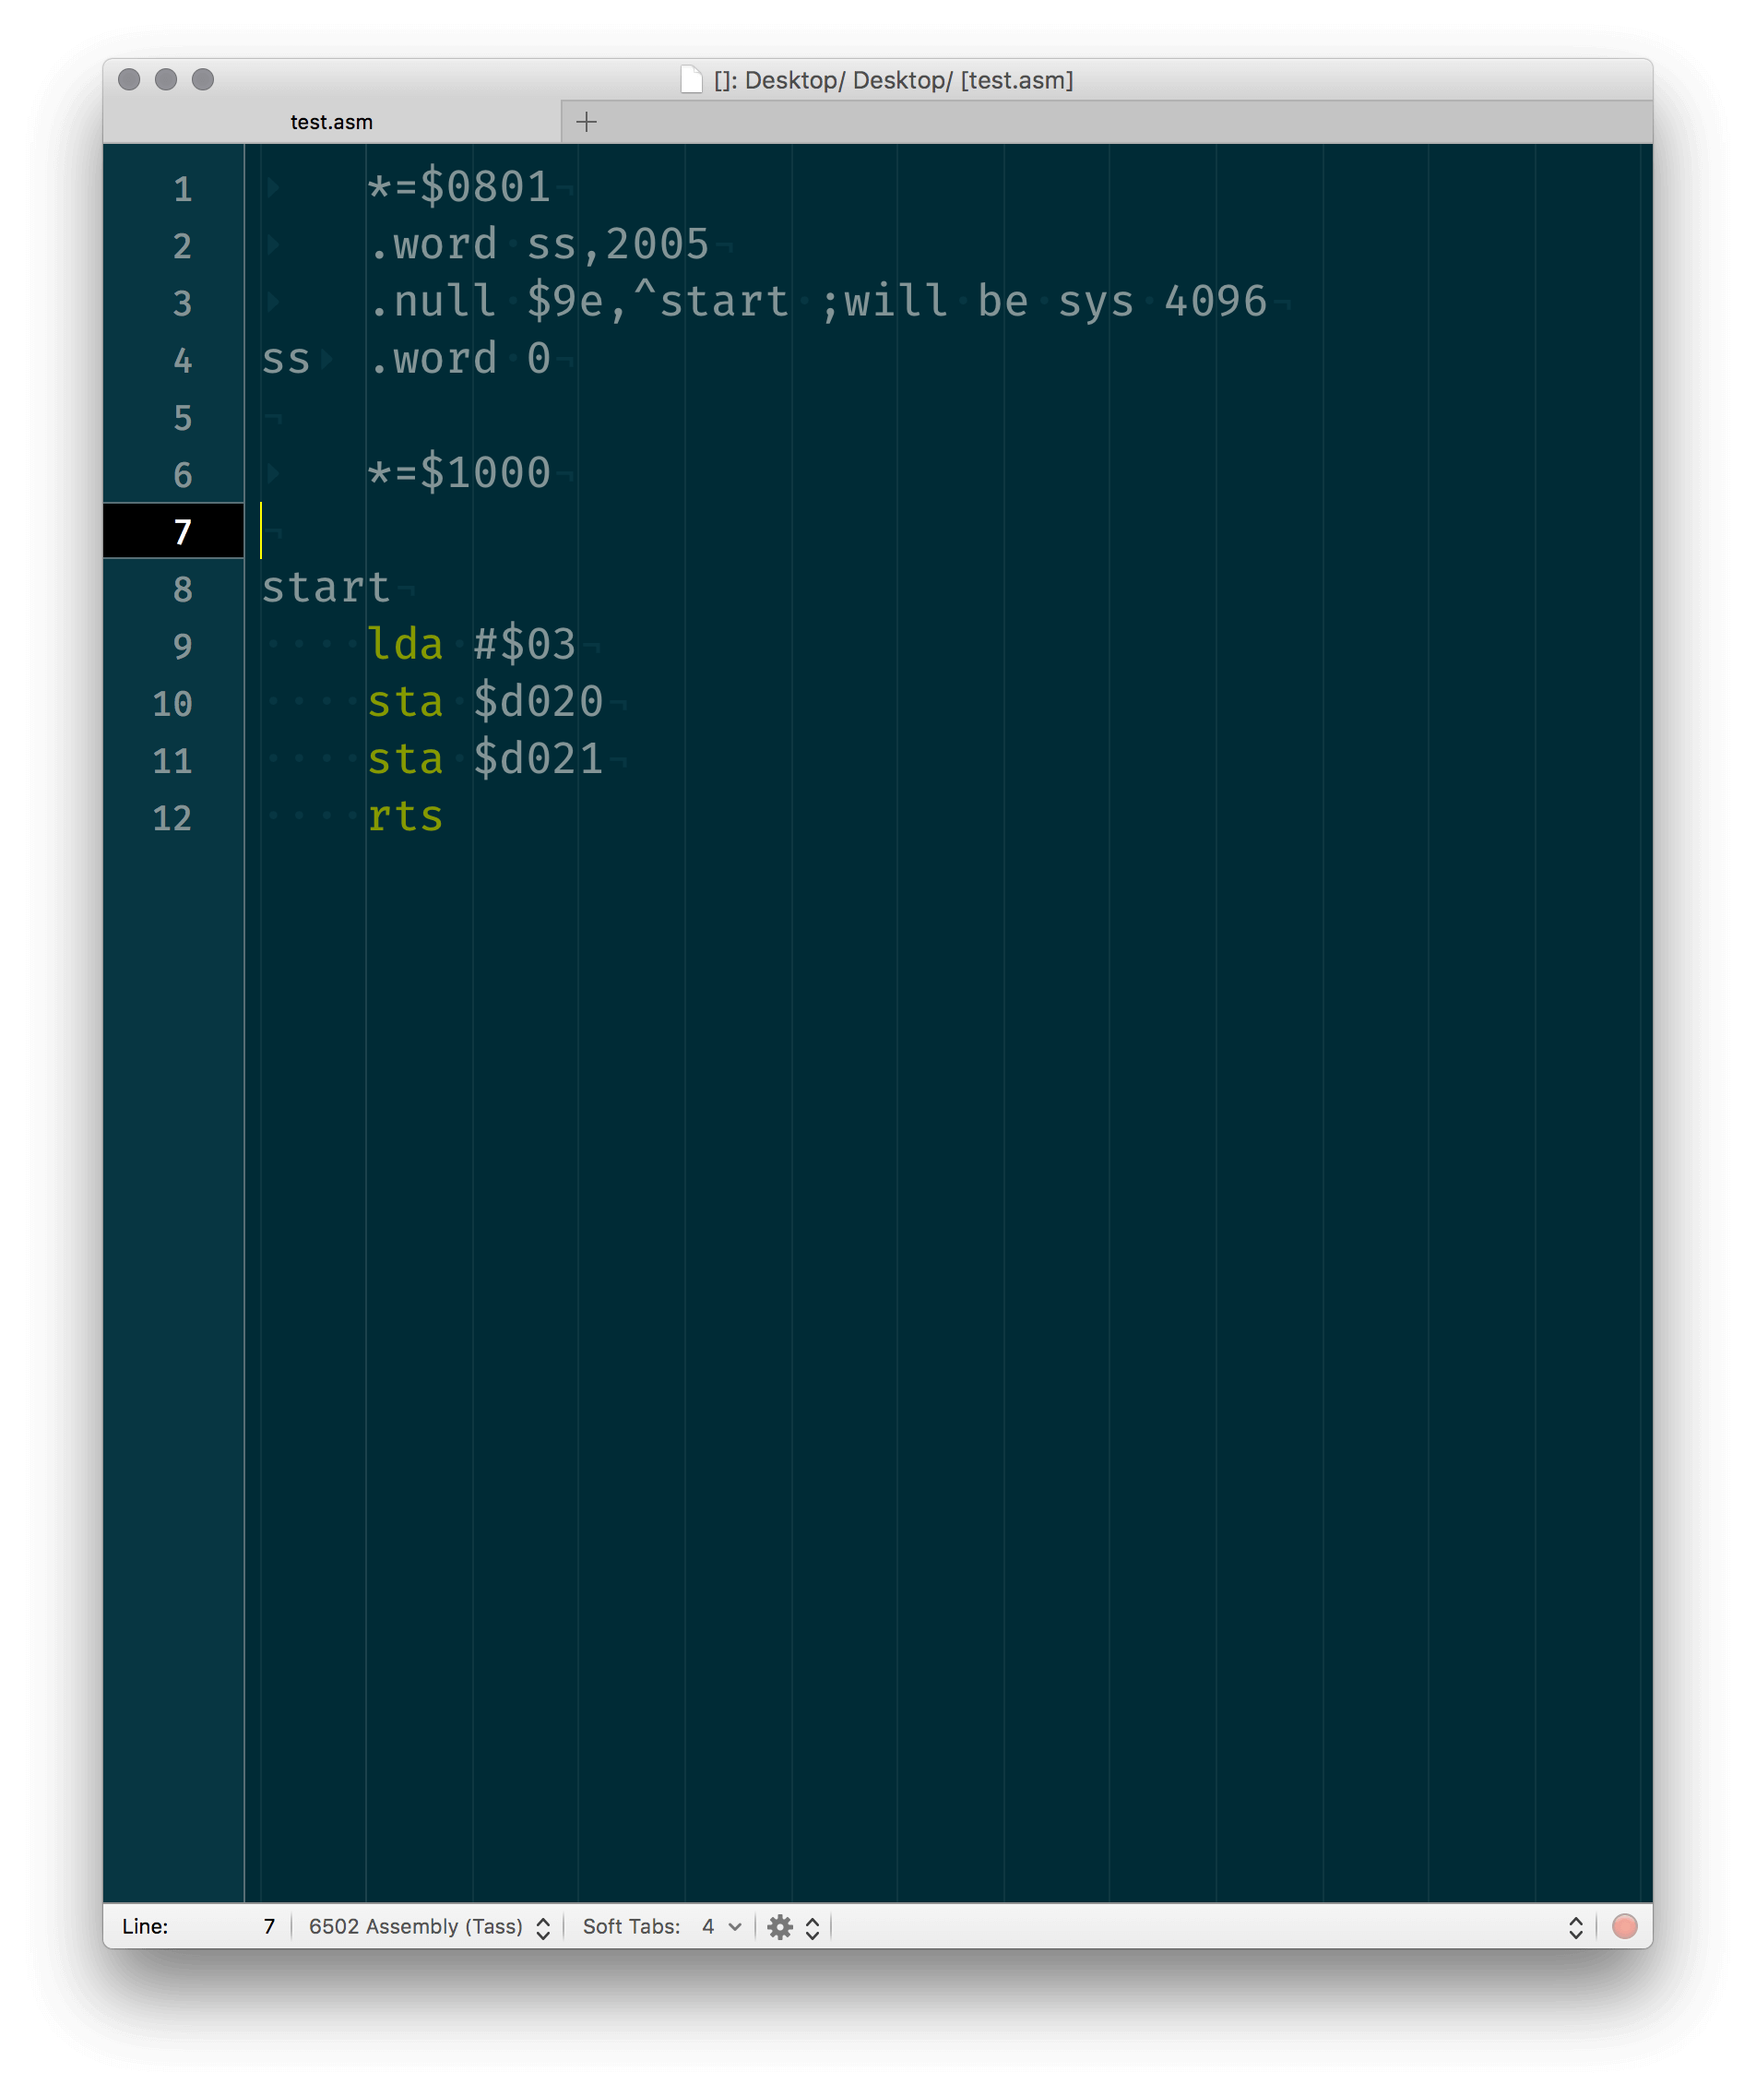
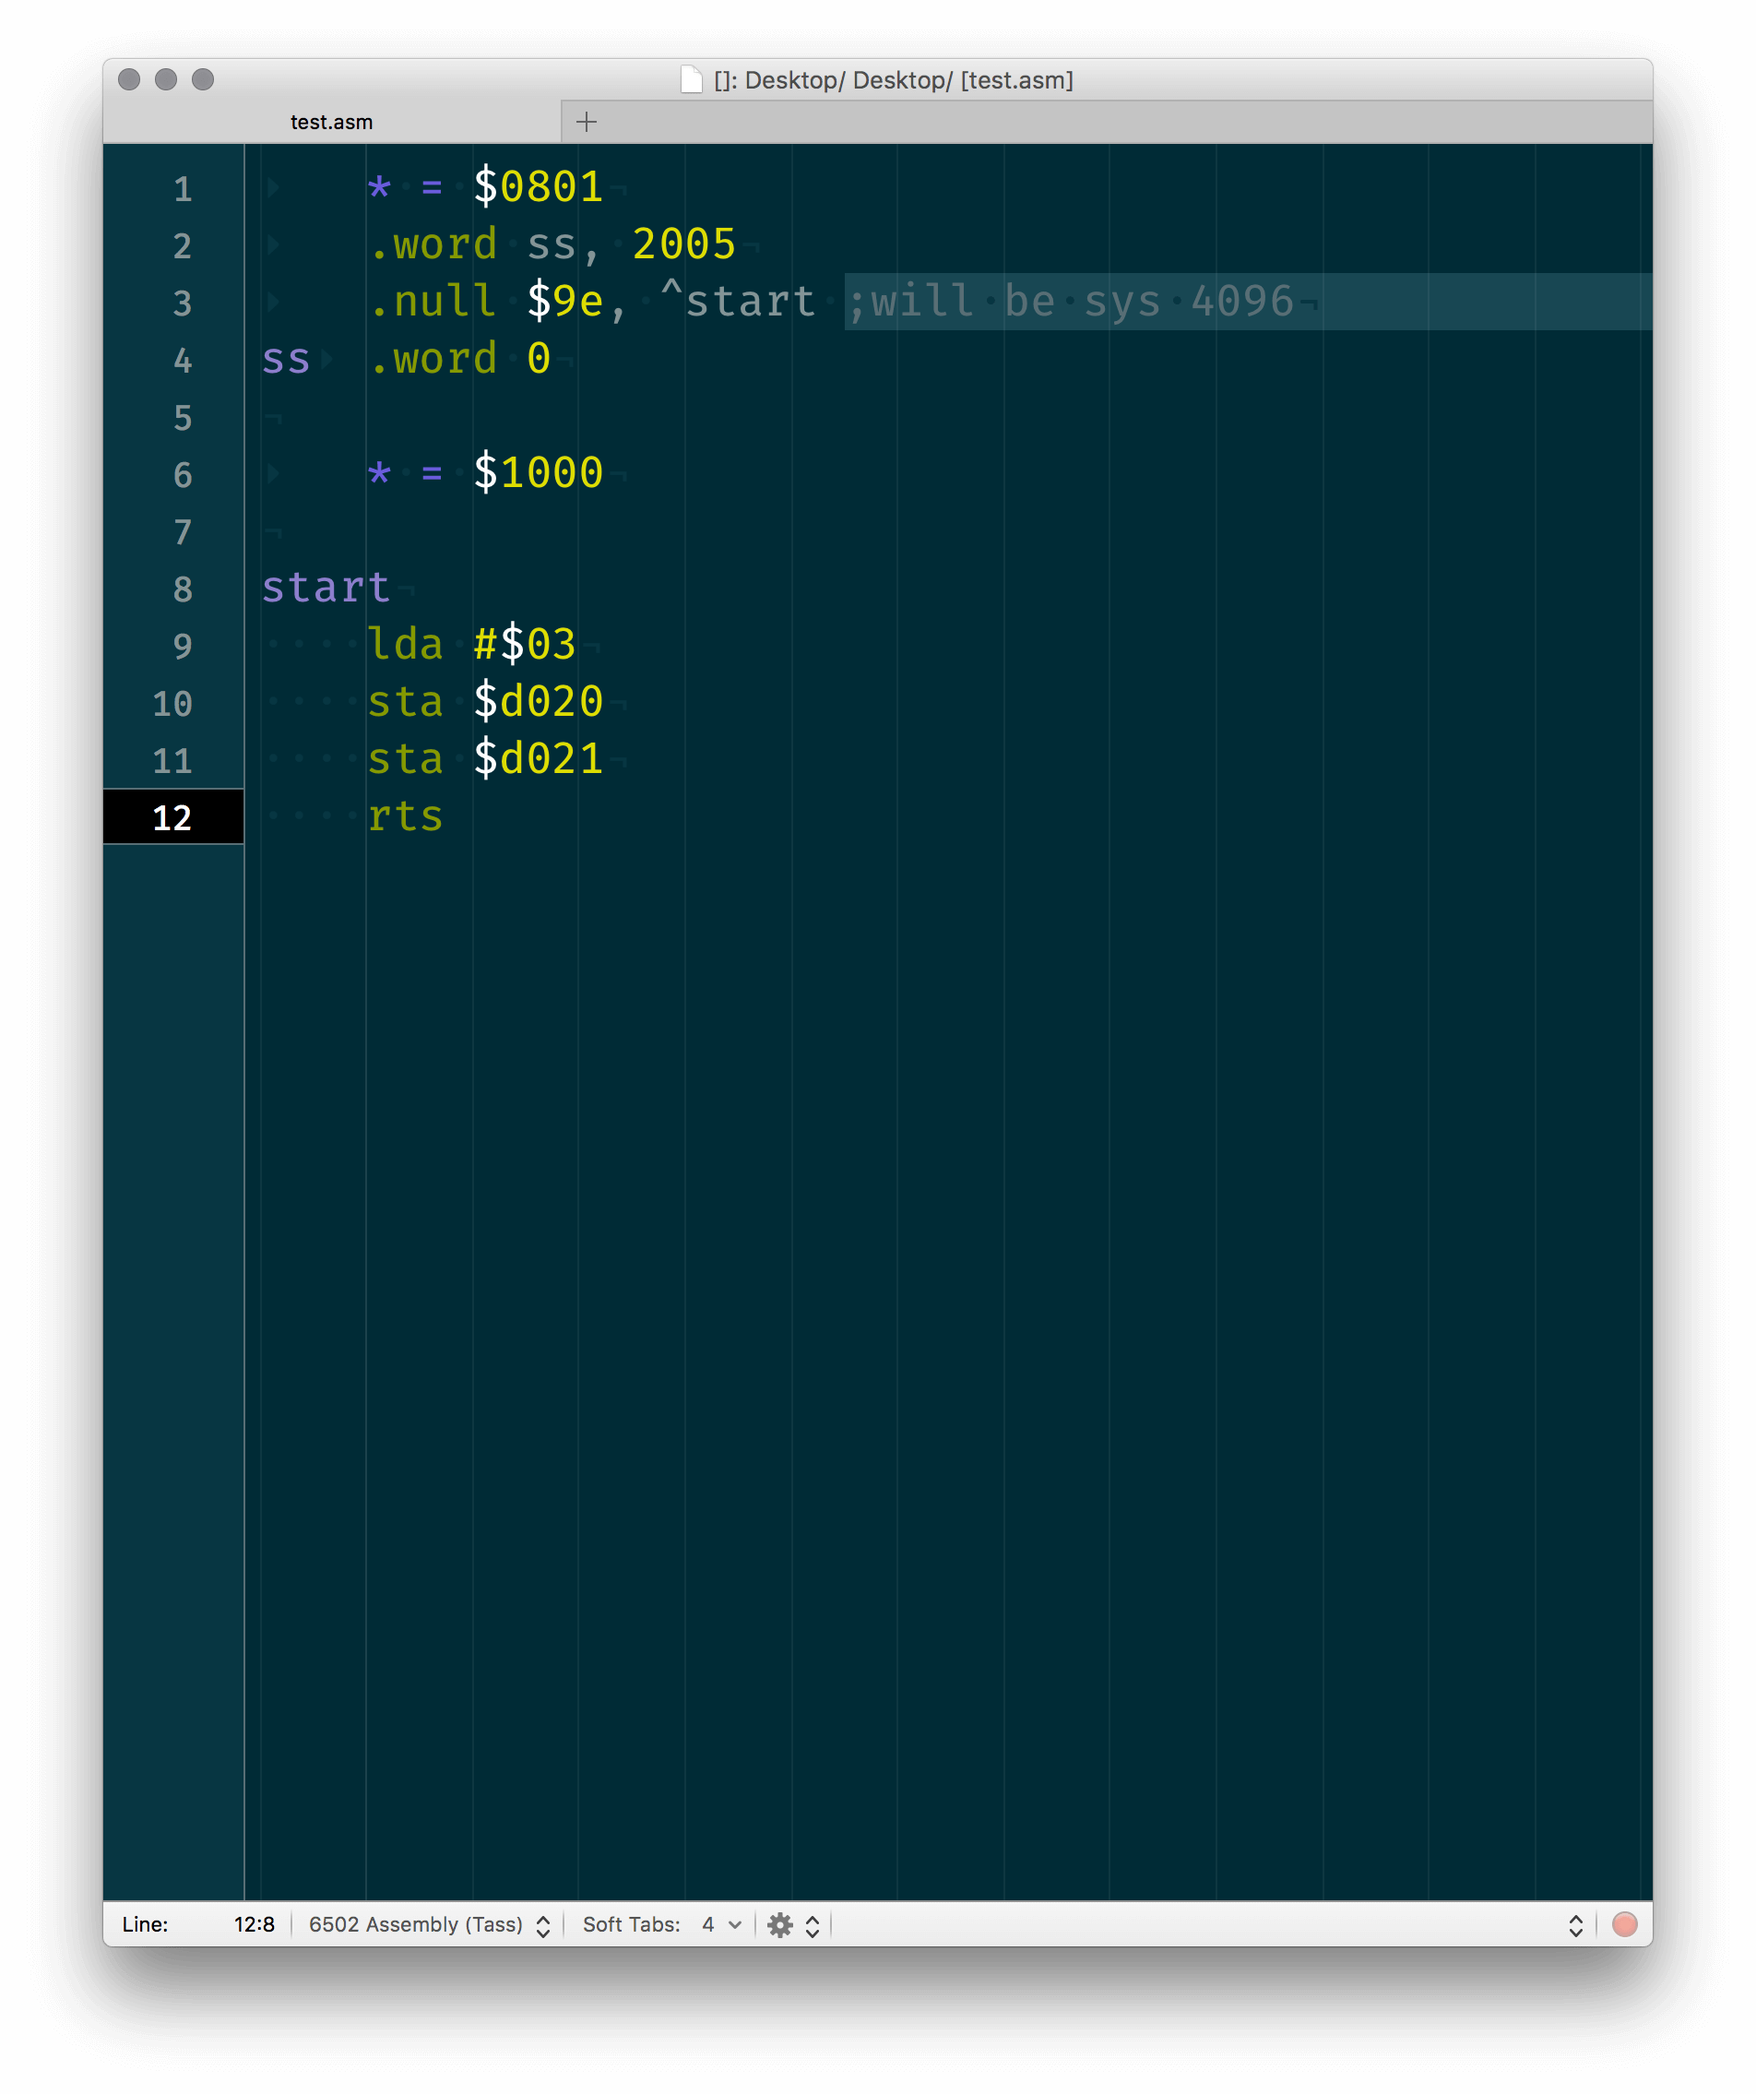
Syntax hightlighting improved

diff --git a/README.md b/README.md
@@ -81,6 +81,28 @@ configurations. It’s totally up to you.
 
 Output theme can be vary according to your preferences.
 
+## Theme Additions
+
+I’ve just added few scope names. Please add these scopes for better syntax
+coloring. I’m using **Solarized Dark Theme**
+
+	{	name = '64Tass - Hexadecimal, Dollar Sign';
+		scope = 'punctuation.definition.64tass.dollar.sign';
+		settings = { foreground = '#ffffff'; };
+	},
+	{	name = '64Tass - Labels';
+		scope = 'entity.name.64tass.label';
+		settings = { foreground = '#8C7ECC'; };
+	},
+	{	name = '64Tass - Comment';
+		scope = 'comment.line.semicolon.64tass';
+		settings = { background = '#184753'; };
+	},
+	{	name = '64Tass - Memory Pointer';
+		scope = 'punctuation.definition.64tass.star.equals';
+		settings = { foreground = '#6a5cdd'; };
+	},
+
 ## Contributer(s)
 
 * [Uğur "vigo" Özyılmazel](https://github.com/vigo) - Creator, maintainer
